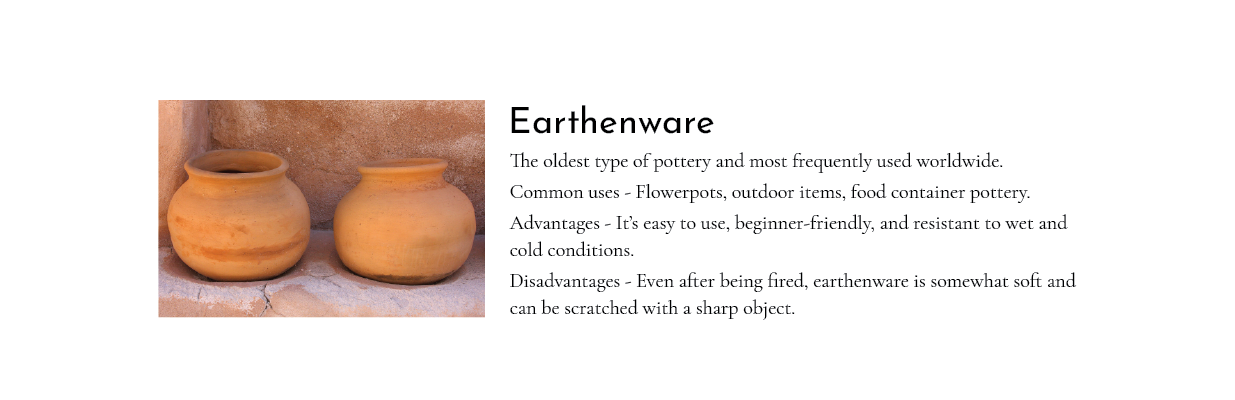
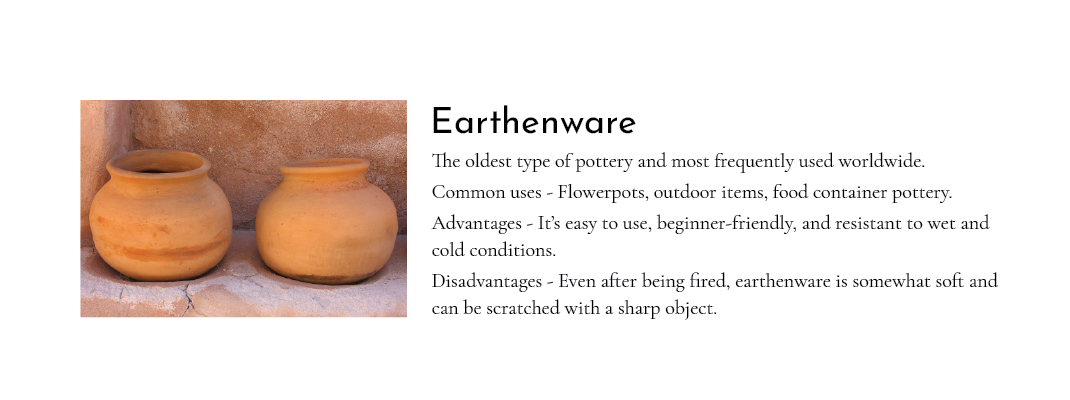
update

Changed region(s): [[0.0617, 0.24, 0.9561, 0.81]]

diff --git a/timber/wayne-national-forest.html b/timber/wayne-national-forest.html
@@ -91,9 +91,17 @@
     <iframe src="https://www.youtube.com/embed/aF5ilaUakIA?autoplay=1&loop=1&playlist=aF5ilaUakIA" title="YouTube video player" frameborder="0" allow="accelerometer; autoplay; clipboard-write; encrypted-media; gyroscope; picture-in-picture" allowfullscreen></iframe>
   </div>
 
-  <p>Over the past century or so, an ambitious undertaking has been ongoing in Athens and surrounding counties: the Wayne National Forest. The Wayne was started following the United States government's realization of the extent of the deforestation in the eastern United States, and it is the only National Forest in Ohio. Being an especially devastated, barren area, southern Ohio was targeted for restoration efforts. </p>
+  <p>Over the past century or so, an ambitious undertaking has been ongoing in Athens and surrounding counties: the Wayne National Forest. The only National Forest in Ohio, the Wayne was begun following the United States’ government realization of the extent of the deforestation in the eastern United States. Being an especially devastated, barren area, southern Ohio was targeted for restoration efforts.  </p>
+
+  <h2>Restoring Wayne National Forest</h2>
+
+  <p><i>Story by Sam Warren</i></p>
   
-  <p>Throughout the decades following the initial realization and reaction by the US Department of Agriculture and subsequently the US Forest Service, thousands of acres of forest were planted, and natural regrowth was fostered and assisted by foresters, biologists, and related experts. The Wayne is especially unique due to its fragmented, sprawling nature. With several parcels of land covering over 244,000 acres and twelve counties in Southeast Ohio, the Wayne is comprised of three main units – Athens, Marietta, and Ironton. </p>
+  <p>Since the first parcel of land was acquired by the Federal government in the 1930s, the Wayne has served as a beacon of hope for restoring Southeast Ohio’s once-flourishing forest ecosystems. Our forests still have a long way to go before they are the healthy, thriving biomes that they were for thousands of years before severe human exploitation. However, where we are today is still leaps and bounds better than the barren wasteland of a hundred years ago.  </p>
+
+  <p>Not only does the Wayne National Forest serve as an important example of successful restoration, conservation, and land stewardship, it also affords the public incredible access to deep forest in the seemingly untouched rolling hills. While strolling along an isolated stretch of trail and listening to the chirping of birds as endless trees creak in the wind, it is hard to imagine a time when the land was a windswept, barren wasteland.  </p>
+
+  <p>The fact that there is not much reforestation going on in the Wayne today serves as a testament to its success. Trees once again blanket the hills, and rather than planting more on the massive scale seen in the mid-1900s, efforts are now taken every day to preserve, protect, and help ensure that our forests flourish for this generation and many to come.  </p>
 
   <div class="imgBlock img_center infograph">
     <img src="images/infographics/infographics_v010-01.png" alt="Graphic by Cheri Marshall">
@@ -101,13 +109,7 @@
     <!-- <p class="caption">Decribe photo here Decribe photo here Decribe photo here Decribe photo here Decribe photo here </p> -->
   </div>
 
-  <h2>Restoring Wayne National Forest</h2>
   
-  <p>Since the first parcel of land was acquired by the Federal government in the 1930s, the Wayne has served as a beacon of hope for restoring Southeast Ohio’s once-flourishing forest ecosystems. Our forests still have a long way to go before they are the healthy, thriving biomes that they were for thousands of years before severe human exploitation. However, where we are today is still leaps and bounds better than the barren wasteland of a hundred years ago.  </p>
-
-  <p>Not only does the Wayne National Forest serve as an important example of successful restoration, conservation, and land stewardship, it also affords the public incredible access to deep forest in the seemingly untouched rolling hills. While strolling along an isolated stretch of trail and listening to the chirping of birds as endless trees creak in the wind, it is hard to imagine a time when the land was a windswept, barren wasteland.  </p>
-
-  <p>The fact that there is not much reforestation going on in the Wayne today serves as a testament to its success. Trees once again blanket the hills, and rather than planting more on the massive scale seen in the mid-1900s, efforts are now taken every day to preserve, protect, and help ensure that our forests flourish for this generation and many to come.  </p>
 
   <h2>Baileys Trail System</h2>
 
@@ -118,14 +120,12 @@
     <p class="caption">Source: baileystrailsystem.org</p>
   </div>
 
-  <p>Snaking through the trees of the Wayne National Forest is the Baileys Trail System, thirty-one miles of purpose-built trail that serve as an amazing example of the access to public lands afforded to communities surrounding the Wayne. With over ten million dollars in funding already secured and plans to build over eighty miles of trail in total, the Outdoor Recreation Council of Appalachia sees the Baileys as an amazing opportunity for the communities and people of the region.  </p>
+  <p>Snaking through the trees of the Wayne National Forest is the Baileys Trail System, thirty-one miles of purpose-built trail that serve as a prime example of the access to public lands that is afforded to communities surrounding the Wayne. With millions of dollars in funding already secured and plans to build over eighty miles of trail in total, the Outdoor Recreation Council of Appalachia (ORCA) sees the Baileys as an amazing opportunity for the communities and people of the region.  </p>
   
 
-  <p>Thousands of visitors have already flocked to the region to hike and bike on the Baileys, as well as to take advantage of ecotourism opportunities like rock climbing and paddling on the nearby Hocking River. Towns such as Chauncey, Ohio that have long suffered from underinvestment are now benefiting from the placement of trailheads in their area. The Baileys is a symbol of the importance not only of outdoor recreation to the success of Southeast Ohio, but of the reclamation of our forests as a sustainable asset to promote growth in a region long defined by extractive practices.  </p>
+  <p>Jessie Powers, Executive Director of ORCA, knows that the Baileys would not be the success that it is today without dedicated citizens. “The Baileys Trail System, from its inception, has been a community-driven project. It’s really taken off and has great grassroots here in Appalachia, with real people on the ground,” Ms. Powers said. Maintaining the trails, which can mean everything from clearing branches to repairing dangerously muddy spots, is up to passionate volunteers and employees. </p>
 
-  <p>Jessie Powers, Director of the Outdoor Recreation Council of Appalachia and manager of the Baileys Trail System describes the project as a “catalytic investment” in that it is only the beginning of a new era regarding the potential of outdoor recreation as an important asset in the development of Southeast Ohio’s economy. By placing trailheads in underdeveloped towns such as Chauncey and Doanville, businesses such as outfitters, guides, restaurants, lodging, and other such commodities related to tourism have already begun to flock to the region. This is a serious development for an area and a population that has long relied on an economy of extraction relating to coal, iron, and timber.</p>
-
-  <p>Drawing on the history and heritage of the region, Baileys prominently features trails with names like “Coal Train” and “Salt Works”, nods to the industries of the past that brought life and prosperity to the hills and hollers of Southeast Ohio. In the words of Jasmine Facun, former Program Manager for the Baileys, “…we’re just at this point where we want to go from here and move forward, not look back to the past in any sort of critical way; more just make the best of the situation we have now. We’re very proud of our heritage here”.  </p>
+  
 
   <div class="imgBlock img_center">
     <img src="images/current-industry/wayne/Timber_Josh Keenan Trail Work_Warren_4.14.22.jpg" alt="Josh Keenan, Volunteer Coordinator with the Wayne National Forest, works on bringing rocks and tools to a work site on the Baileys Trail System within the Wayne.  ">
@@ -136,6 +136,12 @@
   <div class="ytCont">
     <iframe src="https://www.youtube.com/embed/0Oum8EJunDQ?autoplay=1&loop=1&playlist=0Oum8EJunDQ" title="YouTube video player" frameborder="0" allow="accelerometer; autoplay; clipboard-write; encrypted-media; gyroscope; picture-in-picture" allowfullscreen></iframe>
   </div>
+
+  <p>Jasmine Facun, Program Manager of the Baileys Trail System, has seen the success of the project firsthand as it has grown over the years. “Thousands of people have already been enjoying the Baileys Trail System. It’s really amazing to just see so many locals, people from around Athens and beyond, coming out here to enjoy the trail system”.  </p>
+
+
+
+  <p>These thousands of visitors have been flocking to the region to hike and bike on the Baileys, or to take advantage of ecotourism opportunities like rock climbing and paddling on the nearby Hocking River. “We’re really talking about utilizing existing assets to develop our economy, to improve our economy,” Ms. Powers said. “We are suffering from decades of underinvestment. When you’re rural and sparsely populated, it’s really hard to organize and secure the level of investments that are appropriate to maintain just basic infrastructure.”  </p>
 
   <div class="T_section">
     <div class="audioCont">
@@ -156,6 +162,15 @@
 
     <blockquote>“I think of the Baileys as a reimagination of what it means to be a natural resource.”</blockquote>
   </div>
+
+
+
+
+  <p>By placing trailheads in underdeveloped towns such as Chauncey and Doanville, businesses such as outfitters, guides, restaurants, lodging, and other such commodities related to tourism have already begun to flock to the region. Moreover, it has become a symbol of the importance of outdoor recreation to the success of Southeast Ohio and represents the reclamation of our forests as a sustainable asset to promote growth. In a region that has long relied on an economy of extraction relating to coal, iron, and timber, this is a serious development. </p>
+
+  <p>For these reasons, Ms. Powers has described the Baileys and surrounding initiatives as a “catalytic investment”, and only the beginning of a new era regarding the potential of outdoor recreation as an important asset in the development of Southeast Ohio’s economy. 	</p>
+  
+  <p>Drawing on the history and heritage of the region, Baileys prominently features trails with names like “Coal Train” and “Salt Works”, nods to the industries of the past that brought life and prosperity to the hills and hollers of Southeast Ohio. In the words of Ms. Facun, “…we’re just at this point where we want to go from here and move forward, not look back to the past in any sort of critical way; more just make the best of the situation we have now. We’re very proud of our heritage here”.  </p>
 
   <div class="img_split last">
     <div class="imgBlock img_center">

diff --git a/clay/art.html b/clay/art.html
@@ -144,12 +144,12 @@
   </div>
 
   <div class="claySection">
-    <div class="slideshow-container">
+    <div class="slideshow-container wide">
       <div class="mySlides fade">
           <div class="numbertext">1 / 4</div>
           <img src="images/infographics/TypeOfPotteryClay-1.png" style="width:100%" alt="describe">
           <div class="text textBelow"><i>Graphic by Owen Zeiler</i><br>
-            Photos sourced from Creative Commons <i>[Sam Howzit (Eathenware), gfhddskjcbkjc (Stoneware), Diversity Corner (Ball Clay), and Silk Road Collection (Porcelain)]</i>
+            Photos sourced from Creative Commons <i>[Sam Howzit (Eathenware), Mudstuffing (Stoneware), Diversity Corner (Ball Clay), and Silk Road Collection (Porcelain)]</i>
           </div>
       </div>
       

diff --git a/timber/history.html b/timber/history.html
@@ -91,6 +91,8 @@
 
   <h2>Deforestation</h2>
 
+  <p><i>Story by Sam Warren</i></p>
+
   <p>For thousands upon thousands of years, the rolling hills of Southeast Ohio were carpeted in thick, seemingly endless forest. In fact, nearly the entirety of the state was covered in old growth forest. That is, until the late 1700s. As European settlers swept into the state and forcefully removed indigenous peoples that had populated the area for generations, Ohio’s forests began to feel the pressure of colonization and settlement as well. </p>
   
   <div class="imgBlock img_center infograph">

diff --git a/timber/art.html b/timber/art.html
@@ -99,6 +99,8 @@
 
   <h2>Meet <i>Spirit Williams</i></h2>
 
+  <p><i>Story by Avery Waffen</i></p>
+
   <p>Spirit Williams is an 80-year-old wood carver and artist based in Rockbridge, Ohio. Don’t let her age fool you, Spirit has the wit and the sense of humor of someone half her age.</p>
 
   <p>Originally from Oklahoma, she has been wood carving for 53 years and is completely self-taught. She believes in working with the wood to make her carving feel more alive, it’s a “cooperative event” she says. </p>

diff --git a/index.html b/index.html
@@ -72,8 +72,7 @@
 
 <!-- HERO -->
 <div id="hero" class="landingHero">
-    <img src="images/SOA_logo_v003-01-2.png" alt="landingHeroDescription">
-    <a href="#"><svg xmlns="http://www.w3.org/2000/svg" width="24" height="24" viewBox="0 0 24 24"><path d="M0 7.33l2.829-2.83 9.175 9.339 9.167-9.339 2.829 2.83-11.996 12.17z"/></svg></a>
+    <img src="images/SOA_logo_v003-01-2.png" alt="Soul of Athens 2022 Logo | By Cheri Marshall">
 </div>
 
 <div id="introCont">

diff --git a/clay/css/clay.css b/clay/css/clay.css
@@ -558,6 +558,11 @@ blockquote {
     position: relative;
 }
 
+.slideshow-container.wide {
+    background-color: red;
+    width: 80%;
+}
+
 .slideshow-container.tall {
     width: 35%;
 }
@@ -775,6 +780,10 @@ blockquote {
 
     .slideshow-container {
         width: 60%;
+    }
+
+    .slideshow-container.wide {
+        width: 100%;
     }
 
     .slideshow-container.tall {

diff --git a/timber/crownover-lumber.html b/timber/crownover-lumber.html
@@ -95,6 +95,8 @@
 
   <h2>Sustainable Logging at Crownover Lumber</h2>
 
+  <p><i>Story by Avery Waffen</i></p>
+
   <p>Crownover Lumber is located in McArthur Ohio near Lake Hope. It has been operating since 1954 and has seen many owners and many advances since its opening.   </p>
 
   <div class="img_split">
